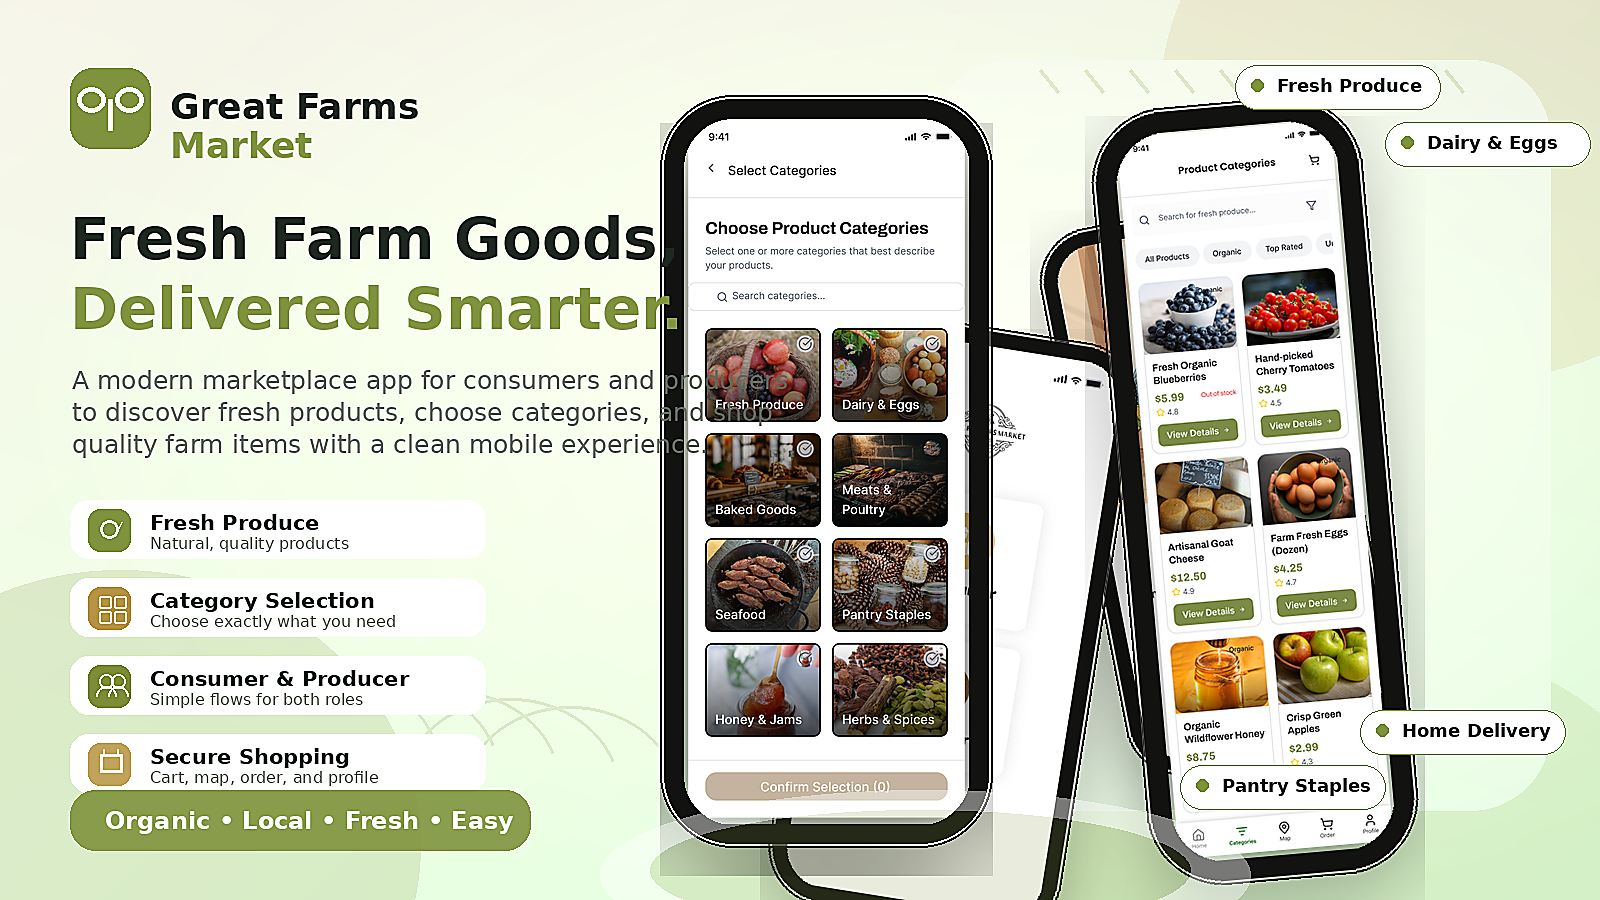
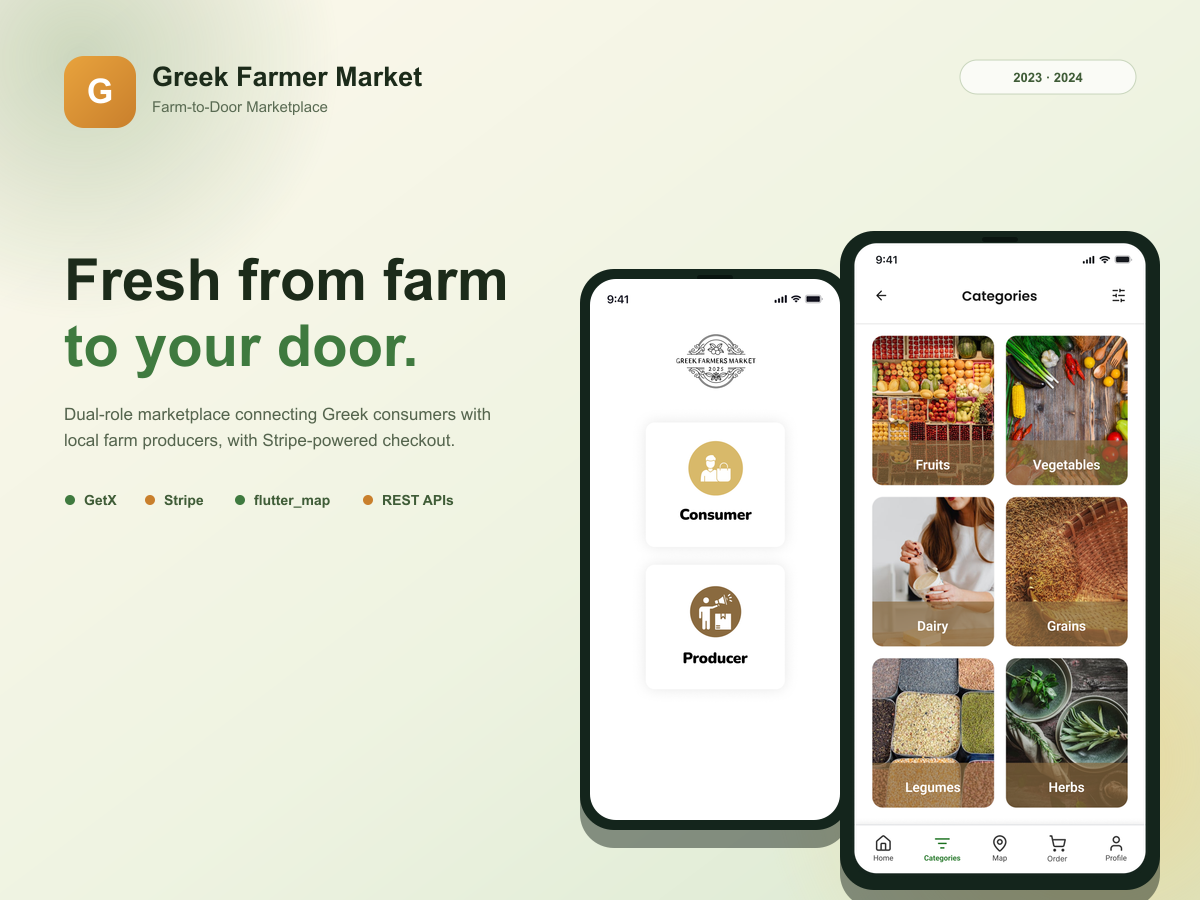
Content and design fixes: titles, languages, links, and new project preview
- Crop profile portrait from the top so the head isn't cut off
- Fix "Résumé" mojibake to plain "Resume"
- Change title from "Senior Flutter Developer" to "Flutter Developer &
  Mobile App Developer" across hero, SEO, and the Infinity job entry
- Replace placeholder spoken languages with real values (Urdu, Pashto,
  English)
- Remove the testimonials section (no real content to show yet)
- Add a general "Mobile Application Development" service alongside the
  Flutter-specific one
- Add Upwork and Fiverr links to socials
- Add real store links for Manifesto MD, AfghanFlavor, Durshalta, and
  Chassis Doctor; add a Play Store link for Greek Farmer Market and
  move it to the 5th project slot
- Generate a new marketing-style preview image for Greek Farmer Market
  from real app screenshots (composited with sharp, one-off script)

diff --git a/src/data/portfolio.ts b/src/data/portfolio.ts
@@ -105,14 +105,6 @@ export interface ServiceItem {
   icon: string;
 }
 
-export interface TestimonialItem {
-  id: string;
-  name: string;
-  role: string;
-  quote: string;
-  placeholder?: boolean;
-}
-
 export const nav: NavLink[] = [
   { label: "About", href: "#about" },
   { label: "Skills", href: "#skills" },
@@ -129,6 +121,16 @@ export const socials: SocialLink[] = [
     url: "https://www.linkedin.com/in/muhammad-talha-42b1ab315/",
     icon: "Linkedin",
   },
+  {
+    label: "Upwork",
+    url: "https://www.upwork.com/freelancers/~01cc31ee0bf4539212",
+    icon: "Briefcase",
+  },
+  {
+    label: "Fiverr",
+    url: "https://www.fiverr.com/s/pdDljXY",
+    icon: "ShoppingBag",
+  },
   { label: "Email", url: "mailto:talha.cusit.pk@gmail.com", icon: "Mail" },
 ];
 
@@ -136,10 +138,9 @@ export const profile: Profile = {
   name: "Muhammad Talha",
   firstName: "Talha",
   titles: [
-    "Senior Flutter Developer",
+    "Flutter Developer & Mobile App Developer",
     "Mobile App Architect",
     "Cross-Platform Engineer",
-    "Mobile App Developer",
   ],
   location: "Islamabad, Pakistan",
   email: "talha.cusit.pk@gmail.com",
@@ -148,7 +149,7 @@ export const profile: Profile = {
   github: "https://github.com/Talha162",
   resumeUrl: "/Talha_CV.pdf",
   summary:
-    "Senior Flutter Developer with 3+ years of experience and 18+ cross-platform Android and iOS apps worked on across food delivery, healthcare, fintech, and construction domains, with multiple apps published on the Play Store and App Store. Specialized in scalable mobile architecture (Clean Architecture, Riverpod/GetX), real-time and offline-first systems, and payment integrations (Stripe, RevenueCat, Easypaisa). Proven track record integrating AI features (OpenAI, Gemini), Google Maps, and native SDKs, with end-to-end ownership from architecture to store release.",
+    "Flutter Developer with 3+ years of experience and 18+ cross-platform Android and iOS apps worked on across food delivery, healthcare, fintech, and construction domains, with multiple apps published on the Play Store and App Store. Specialized in scalable mobile architecture (Clean Architecture, Riverpod/GetX), real-time and offline-first systems, and payment integrations (Stripe, RevenueCat, Easypaisa). Proven track record integrating AI features (OpenAI, Gemini), Google Maps, and native SDKs, with end-to-end ownership from architecture to store release.",
   availability: "Available for new opportunities",
 };
 
@@ -265,7 +266,7 @@ export const skillGroups: SkillGroup[] = [
 export const experiences: Experience[] = [
   {
     id: "infinity",
-    role: "Senior Flutter Developer",
+    role: "Flutter Developer",
     company: "Infinity Softwares Company",
     location: "Islamabad",
     period: "Sep 2025 — Present",
@@ -362,20 +363,25 @@ export const certifications: CertificationItem[] = [
 ];
 
 export const languages: LanguageItem[] = [
-  {
-    name: "English (Replace with actual content)",
-    level: 80,
-    placeholder: true,
-  },
+  { name: "Urdu (Native)", level: 100 },
+  { name: "Pashto (Native / Mother Tongue)", level: 100 },
+  { name: "English (Professional)", level: 85 },
 ];
 
 export const services: ServiceItem[] = [
   {
+    id: "mobile-apps",
+    title: "Mobile Application Development",
+    description:
+      "End-to-end Android and iOS app development — architecture, UI, and store-ready release, for general mobile products as well as Flutter-specific builds.",
+    icon: "Smartphone",
+  },
+  {
     id: "flutter-dev",
     title: "Flutter App Development",
     description:
-      "End-to-end cross-platform Android and iOS app development using Clean Architecture and modern state management.",
-    icon: "Smartphone",
+      "Cross-platform Flutter development using Clean Architecture and modern state management (Riverpod, GetX, Bloc, Provider).",
+    icon: "Code2",
   },
   {
     id: "backend-integration",
@@ -407,23 +413,6 @@ export const services: ServiceItem[] = [
   },
 ];
 
-export const testimonials: TestimonialItem[] = [
-  {
-    id: "placeholder-1",
-    name: "Replace with actual content",
-    role: "Replace with actual content",
-    quote: "Replace with actual content",
-    placeholder: true,
-  },
-  {
-    id: "placeholder-2",
-    name: "Replace with actual content",
-    role: "Replace with actual content",
-    quote: "Replace with actual content",
-    placeholder: true,
-  },
-];
-
 export const projects: Project[] = [
   {
     id: "manifesto",
@@ -434,7 +423,10 @@ export const projects: Project[] = [
     period: "Nov 2025 - Present",
     company: "Infinity Softwares",
     image: "/images/project-manifesto.png",
-    links: { store: "https://play.google.com" },
+    links: {
+      store:
+        "https://play.google.com/store/apps/details?id=com.raitime.manifestomd&pcampaignid=web_share",
+    },
     detail:
       "Notable technical detail: AI-assisted diagnostic summaries are layered on top of a Firebase-backed clinical reference dataset, with RevenueCat managing subscription entitlements across platforms.",
   },
@@ -448,6 +440,7 @@ export const projects: Project[] = [
     company: "Infinity Softwares",
     image: "/images/project-chassis.png",
     links: {
+      store: "https://apps.apple.com/us/app/chassis-doctor/id6752336932",
       figma:
         "https://www.figma.com/design/yV6nTZizB8HmBqFA7g05HI/Motorsport?node-id=0-1&p=f&t=Tc0YSu0BilCdPCFn-0",
     },
@@ -504,6 +497,23 @@ export const projects: Project[] = [
       "Notable technical detail: payout order assignment and Stripe-backed payment tracking are fully separated between admin and member roles, with Cloud Functions driving real-time reminder notifications.",
   },
   {
+    id: "farmer",
+    title: "Greek Farmer Market",
+    description:
+      "Dual-role marketplace connecting Greek consumers with local farm producers, supporting in-app browsing, ordering, and Stripe-powered checkout. Built with GetX and flutter_map for producer discovery, REST APIs for catalogue and orders, and get_storage for lightweight local persistence.",
+    tech: ["Flutter", "GetX", "Stripe", "flutter_map", "REST APIs"],
+    period: "2023 - 2024",
+    image: "/images/project-farmer.png",
+    links: {
+      store:
+        "https://play.google.com/store/apps/details?id=com.greekfarmersmarket.app&pcampaignid=web_share",
+      figma:
+        "https://www.figma.com/design/OXedVCPQzCUEI0GN96DWAt/farmer?node-id=0-1&p=f&t=FDgzXZepIqJSHWIr-0",
+    },
+    detail:
+      "Notable technical detail: flutter_map drives producer discovery for a dual-role (consumer/producer) marketplace, with Stripe handling checkout and get_storage for local persistence.",
+  },
+  {
     id: "cricket",
     title: "Ball-by-Ball Cricket Scoring",
     description:
@@ -550,7 +560,10 @@ export const projects: Project[] = [
       "/images/projects/afghflavor/unnamed (8).webp",
       "/images/projects/afghflavor/unnamed (9).webp",
     ],
-    links: { store: "https://play.google.com" },
+    links: {
+      store:
+        "https://play.google.com/store/apps/details?id=com.afghanflavors.app&pcampaignid=web_share",
+    },
     detail:
       "Notable technical detail: three distinct app flows (customer, rider, restaurant) share a Firebase backend, with Google Maps driving live delivery tracking and route guidance.",
   },
@@ -573,7 +586,7 @@ export const projects: Project[] = [
       "/images/projects/durshalta/300x650bb (5).webp",
       "/images/projects/durshalta/300x650bb (6).webp",
     ],
-    links: { store: "https://apps.apple.com" },
+    links: { store: "https://apps.apple.com/pk/app/durshalta/id6503061159" },
     detail:
       "Notable technical detail: photo-based delivery verification and live location sharing run over the same Google Maps integration used for dual customer/rider order flows.",
   },
@@ -787,21 +800,6 @@ export const projects: Project[] = [
     },
     detail:
       "Notable technical detail: a design-fidelity prototype rendering destination browsing and booking flows from hardcoded data, focused purely on visual polish.",
-  },
-  {
-    id: "farmer",
-    title: "Greek Farmer Market",
-    description:
-      "Dual-role marketplace connecting Greek consumers with local farm producers, supporting in-app browsing, ordering, and Stripe-powered checkout. Built with GetX and flutter_map for producer discovery, REST APIs for catalogue and orders, and get_storage for lightweight local persistence.",
-    tech: ["Flutter", "GetX", "Stripe", "flutter_map", "REST APIs"],
-    period: "2023 - 2024",
-    image: "/images/project-farmer.png",
-    links: {
-      figma:
-        "https://www.figma.com/design/OXedVCPQzCUEI0GN96DWAt/farmer?node-id=0-1&p=f&t=FDgzXZepIqJSHWIr-0",
-    },
-    detail:
-      "Notable technical detail: flutter_map drives producer discovery for a dual-role (consumer/producer) marketplace, with Stripe handling checkout and get_storage for local persistence.",
   },
   {
     id: "fleetmgmt",

diff --git a/index.html b/index.html
@@ -6,30 +6,30 @@
     <meta name="theme-color" content="#0b0b12" />
     <meta
       name="description"
-      content="Muhammad Talha — Senior Flutter Developer with 3+ years of experience building scalable, cross-platform mobile apps across food delivery, healthcare, fintech, and construction domains."
+      content="Muhammad Talha — Flutter Developer & Mobile App Developer with 3+ years of experience building scalable, cross-platform mobile apps across food delivery, healthcare, fintech, and construction domains."
     />
     <meta
       name="keywords"
-      content="Flutter Developer, Senior Flutter Developer, Mobile App Developer, Dart, Firebase, Cross-Platform Development, iOS, Android"
+      content="Flutter Developer, Mobile App Developer, Mobile Application Developer, Dart, Firebase, Cross-Platform Development, iOS, Android"
     />
     <meta name="author" content="Muhammad Talha" />
     <meta name="robots" content="index, follow" />
     <link rel="canonical" href="https://example.com/" />
 
-    <meta property="og:title" content="Muhammad Talha — Senior Flutter Developer" />
+    <meta property="og:title" content="Muhammad Talha — Flutter Developer & Mobile App Developer" />
     <meta
       property="og:description"
-      content="Senior Flutter Developer with 3+ years of experience and 22+ cross-platform mobile projects across food delivery, healthcare, fintech, and construction."
+      content="Flutter Developer & Mobile App Developer with 3+ years of experience and 22+ cross-platform mobile projects across food delivery, healthcare, fintech, and construction."
     />
     <meta property="og:type" content="website" />
     <meta property="og:url" content="https://example.com/" />
     <meta property="og:image" content="https://example.com/images/profile.png" />
 
     <meta name="twitter:card" content="summary_large_image" />
-    <meta name="twitter:title" content="Muhammad Talha — Senior Flutter Developer" />
+    <meta name="twitter:title" content="Muhammad Talha — Flutter Developer & Mobile App Developer" />
     <meta
       name="twitter:description"
-      content="Senior Flutter Developer with 3+ years of experience building cross-platform Android and iOS apps."
+      content="Flutter Developer & Mobile App Developer with 3+ years of experience building cross-platform Android and iOS apps."
     />
     <meta name="twitter:image" content="https://example.com/images/profile.png" />
 
@@ -48,7 +48,7 @@
         "@context": "https://schema.org",
         "@type": "Person",
         "name": "Muhammad Talha",
-        "jobTitle": "Senior Flutter Developer",
+        "jobTitle": "Flutter Developer & Mobile App Developer",
         "url": "https://example.com/",
         "image": "https://example.com/images/profile.png",
         "email": "mailto:talha.cusit.pk@gmail.com",
@@ -65,7 +65,7 @@
       }
     </script>
 
-    <title>Muhammad Talha — Senior Flutter Developer</title>
+    <title>Muhammad Talha — Flutter Developer & Mobile App Developer</title>
   </head>
   <body>
     <div id="root"></div>

diff --git a/src/components/sections/About.tsx b/src/components/sections/About.tsx
@@ -32,7 +32,7 @@ export function About() {
                 width={480}
                 height={480}
                 loading="lazy"
-                className="aspect-square w-full object-cover"
+                className="aspect-square w-full object-cover object-top"
               />
             </div>
           </div>
@@ -99,9 +99,9 @@ export function About() {
               target="_blank"
               rel="noreferrer"
               className="border border-border bg-surface-2 text-content hover:border-brand/50"
-              ariaLabel="Download résumé PDF"
+              ariaLabel="Download resume PDF"
             >
-              Download Résumé
+              Download Resume
               <Icon name="Download" size={16} />
             </MagneticButton>
           </motion.div>

diff --git a/src/components/layout/SEO.tsx b/src/components/layout/SEO.tsx
@@ -8,10 +8,10 @@ import { profile } from "@/data/portfolio";
 export function SEO() {
   return (
     <>
-      <title>{`${profile.name} — Senior Flutter Developer`}</title>
+      <title>{`${profile.name} — Flutter Developer & Mobile App Developer`}</title>
       <meta
         name="description"
-        content="Senior Flutter Developer with 3+ years of experience building scalable, cross-platform mobile apps across food delivery, healthcare, fintech, and construction domains."
+        content="Flutter Developer & Mobile App Developer with 3+ years of experience building scalable, cross-platform mobile apps across food delivery, healthcare, fintech, and construction domains."
       />
     </>
   );

diff --git a/src/App.tsx b/src/App.tsx
@@ -34,11 +34,6 @@ const LanguagesSection = lazy(() =>
 const Services = lazy(() =>
   import("@/components/sections/Services").then((m) => ({ default: m.Services })),
 );
-const Testimonials = lazy(() =>
-  import("@/components/sections/Testimonials").then((m) => ({
-    default: m.Testimonials,
-  })),
-);
 const Contact = lazy(() =>
   import("@/components/sections/Contact").then((m) => ({ default: m.Contact })),
 );
@@ -76,7 +71,6 @@ function App() {
           <Certifications />
           <LanguagesSection />
           <Services />
-          <Testimonials />
           <Contact />
         </Suspense>
       </main>

diff --git a/src/components/sections/Hero.tsx b/src/components/sections/Hero.tsx
@@ -76,9 +76,9 @@ export function Hero() {
               target="_blank"
               rel="noreferrer"
               className="border border-border bg-surface-2 text-content hover:border-brand/50"
-              ariaLabel="Download résumé PDF"
+              ariaLabel="Download resume PDF"
             >
-              Download Résumé
+              Download Resume
               <Icon name="Download" size={16} />
             </MagneticButton>
           </motion.div>

diff --git a/src/components/sections/Languages.tsx b/src/components/sections/Languages.tsx
@@ -21,11 +21,6 @@ export function Languages() {
           {languages.map((lang) => (
             <motion.div key={lang.name} variants={fadeInUp}>
               <SkillBar name={lang.name} level={lang.level} />
-              {lang.placeholder && (
-                <p className="mt-1 text-xs italic text-faint">
-                  Replace with actual content
-                </p>
-              )}
             </motion.div>
           ))}
         </div>

diff --git a/src/components/ui/icon-registry.ts b/src/components/ui/icon-registry.ts
@@ -40,6 +40,7 @@ import {
   Loader2,
   Quote,
   Globe,
+  ShoppingBag,
   type LucideIcon,
 } from "lucide-react";
 
@@ -85,6 +86,7 @@ export const icons: Record<string, LucideIcon> = {
   Loader2,
   Quote,
   Globe,
+  ShoppingBag,
 };
 
 export type IconName = keyof typeof icons;

diff --git a/src/lucide-react.d.ts b/src/lucide-react.d.ts
@@ -51,6 +51,7 @@ declare module "lucide-react" {
   export const Sparkle: LucideIcon;
   export const Quote: LucideIcon;
   export const Globe: LucideIcon;
+  export const ShoppingBag: LucideIcon;
 
   const _default: Record<string, LucideIcon>;
   export default _default;
